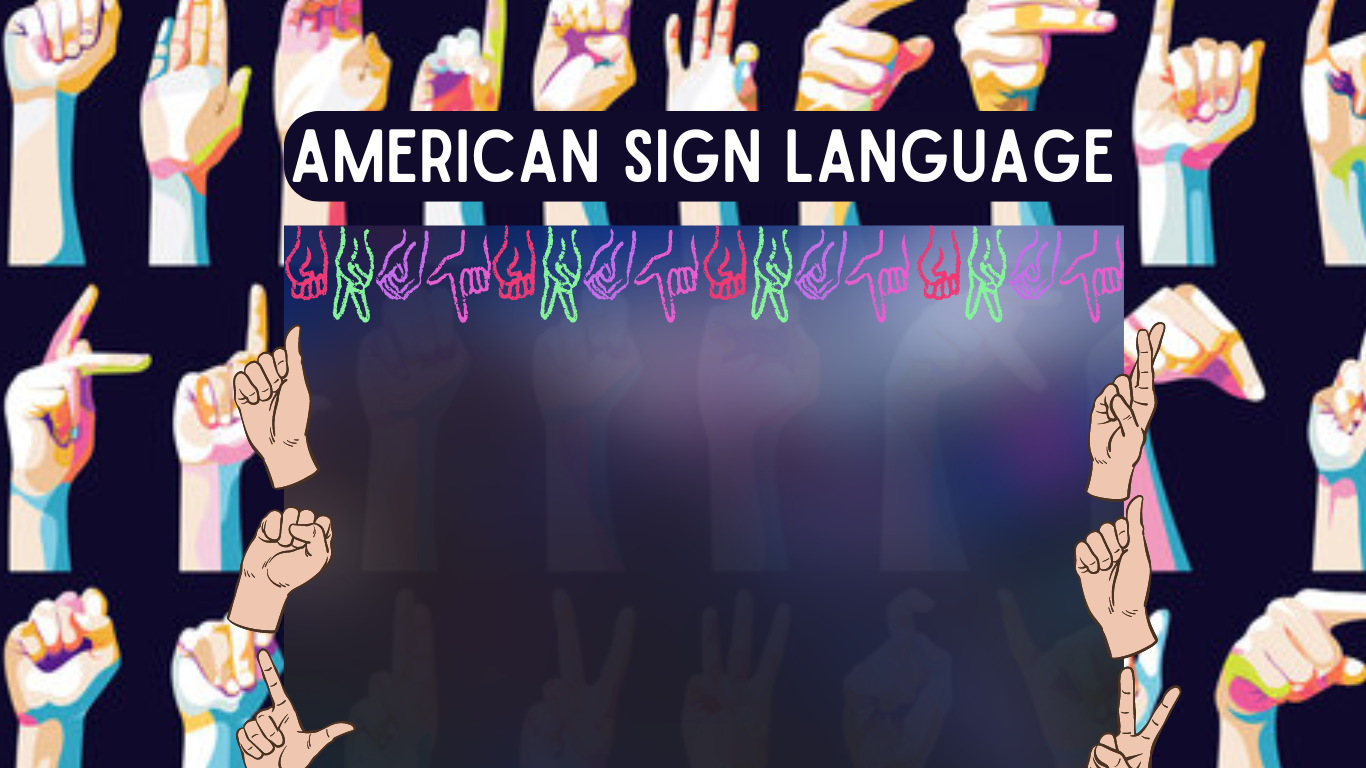
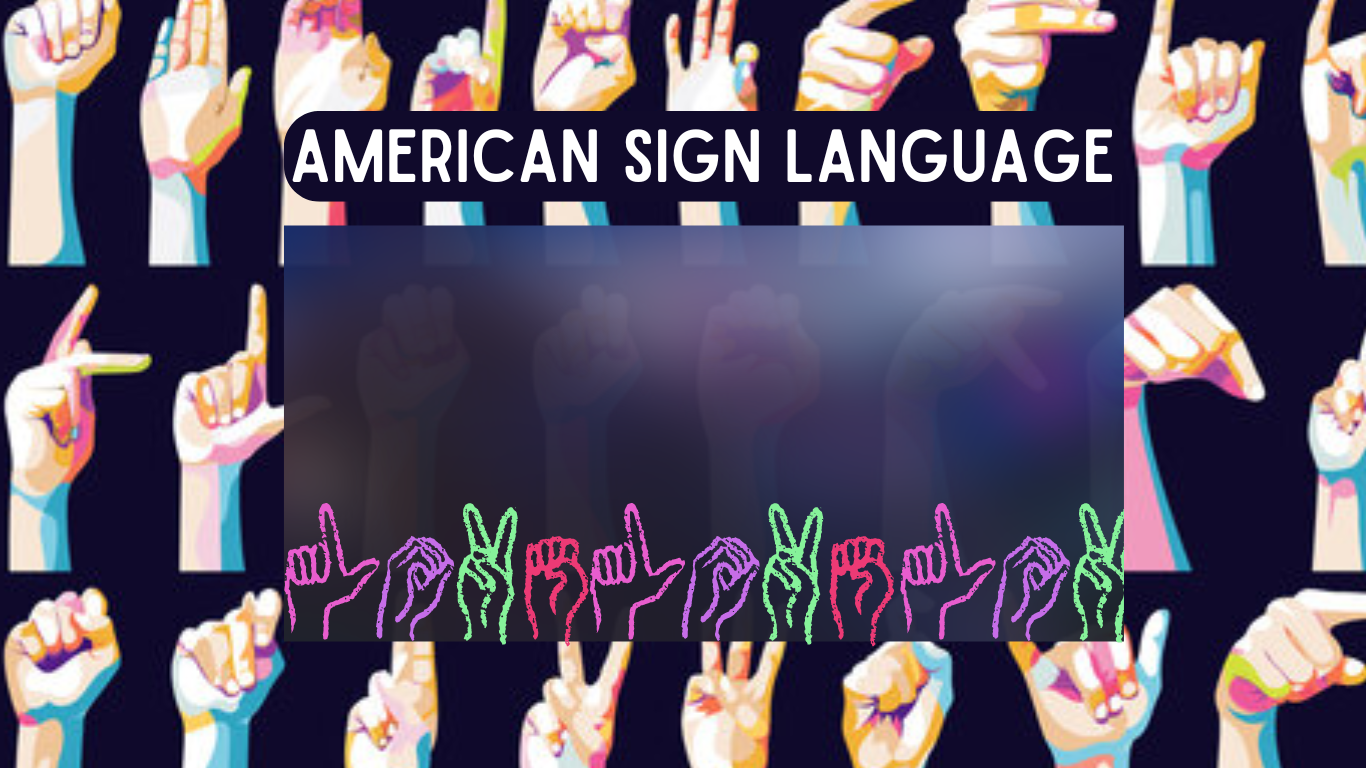
Added Files

Changed region(s): [[0.1537, 0.2812, 0.8609, 1.0]]

diff --git a/index.html b/index.html
@@ -1,0 +1,37 @@
+<!DOCTYPE html>
+<html lang="en">
+<head>
+    <meta charset="UTF-8">
+    <meta name="viewport" content="width=device-width, initial-scale=1.0">
+    <style>
+        body, html {
+            height: 100%;
+            margin: 0;
+        }
+        .bg {
+            background-image: url('asl2 (1).png');
+            height: 100%;
+            background-position: center;
+            background-repeat: no-repeat;
+            background-size: cover;
+            position: absolute;
+            width: 100%;
+            top: 0;
+            left: 0;
+            z-index: -1;
+        }
+        .content {
+            position: relative;
+            z-index: 1;
+            padding: 20px;
+        }
+    </style>
+</head>
+<body>
+    <div class="bg"></div>
+    <div class="content">
+        <h1>American Sign Language</h1>
+        <div id="main"></div>
+    </div>
+</body>
+</html>
